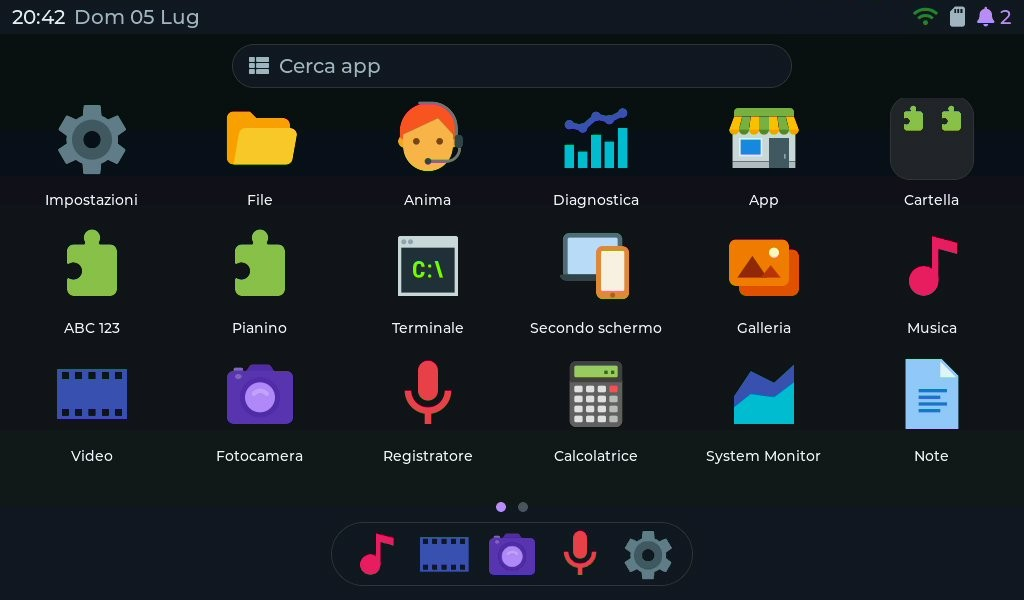
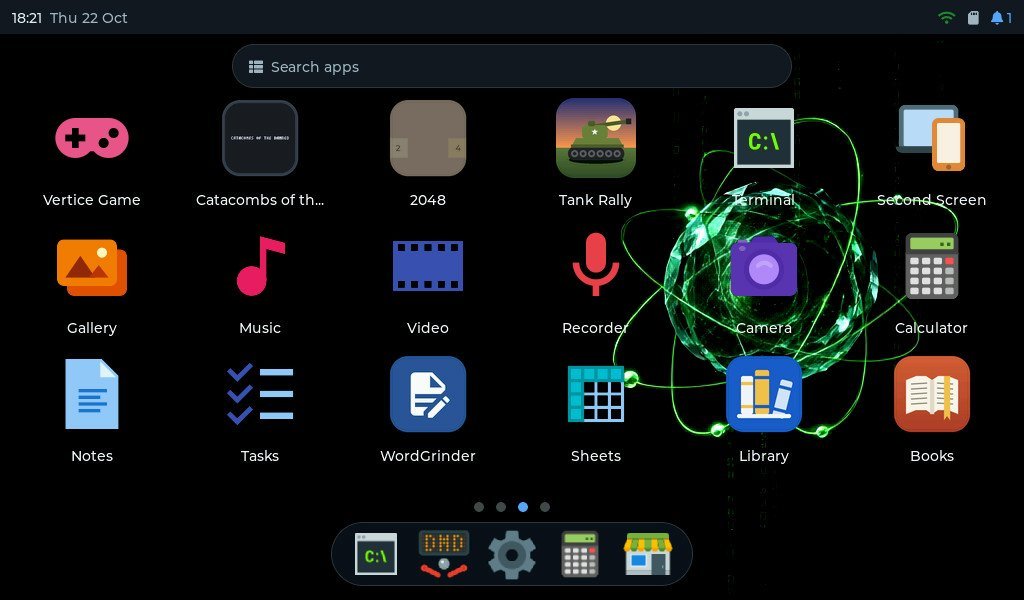
docs: a new README for today's NucleoOS, with English screenshots
The README now covers what the system has become: the classic desktop,
the store by platform (WASM-4, Arduboy, Game Boy, Doom, ScummVM, CHIP-8,
interactive fiction, LOVE, terminal tools), the Books reader and its
catalog, Library, Sheets and WordGrinder, the Vertice 3D engine, ANIMA
(offline first, its four modes, tools, keys sealed to the chip), Second
Screen, Home with Home Assistant, DMD Pinball, the web desktop and ABI 19.
New live captures from the board, all with the UI in English; the Wi-Fi
name and the home address are covered.

Launcher tiles now take an app's name in the UI language from its
manifest "names" (the Store did already); five store apps that only had
an Italian name get theirs.

diff --git a/components/nv_wasm/nv_wasm.cpp b/components/nv_wasm/nv_wasm.cpp
@@ -2716,6 +2716,13 @@ bool read_manifest(const char *dir, const char *id, nv_wasm_app_t *out) {
 
     memset(out, 0, sizeof(*out));
     const cJSON *jn = cJSON_GetObjectItem(root, "name");
+    {   // "names": {"en": ..., "it": ...}: the UI language's name on the tile, else "name"
+        static const char *const kCode[NV_LANG_COUNT] = {"en", "it", "es", "fr", "de"};
+        const int l = (int)nv_i18n_get_lang();
+        const cJSON *jns = cJSON_GetObjectItem(root, "names");
+        const cJSON *jl = cJSON_IsObject(jns) && l >= 0 && l < (int)NV_LANG_COUNT ? cJSON_GetObjectItem(jns, kCode[l]) : nullptr;
+        if (cJSON_IsString(jl) && jl->valuestring && jl->valuestring[0]) jn = jl;
+    }
     const cJSON *jv = cJSON_GetObjectItem(root, "version");
     const cJSON *je = cJSON_GetObjectItem(root, "entry");
     snprintf(out->id, sizeof out->id, "%s", id);

diff --git a/README.md b/README.md
@@ -1,16 +1,16 @@
-# NucleoOS P4 · custom firmware / OS for the Guition JC1060P470C (ESP32-P4 7" display)
+# NucleoOS P4 · an operating system for the Guition ESP32-P4 7" touchscreen
 
-**Turn the Guition ESP32-P4 7" touchscreen (JC1060P470C_I_W) into a real little computer:**
-a touch launcher, 15 built-in apps, an app store (its own apps plus 150 WASM-4 community games), a
-WebAssembly runtime, a desktop in your browser, and signed updates over Wi-Fi. Flash it from Chrome
-in a few minutes, no toolchain needed.
-
-What is verified on the board and what is still experimental is listed feature by feature in
-[`docs/STATUS.md`](docs/STATUS.md).
+**NucleoOS turns the Guition JC1060P470C (ESP32-P4, 7", 1024×600) into a small computer you can
+actually use:** a touch launcher and a classic desktop, an app store with over 400 apps and games,
+an ebook reader with a catalog of free books, a spreadsheet and a word processor, game engines and
+emulators, an assistant that works offline, a second-screen mode for your PC, a Home Assistant
+dashboard, a virtual-pinball DMD, and signed updates over Wi-Fi. Flash it from Chrome in a few
+minutes; no toolchain needed.
 
 [![Install from the browser](https://img.shields.io/badge/⚡_Install-from_your_browser-1f5eff?style=for-the-badge)](https://indecenti.github.io/nucleoos-p4-store/flash/)
 [![Latest release](https://img.shields.io/github/v/release/indecenti/NucleoOS-P4?style=for-the-badge&label=firmware)](https://github.com/indecenti/NucleoOS-P4/releases/latest)
-[![App store](https://img.shields.io/badge/App_store-apps_%2B_150_WASM--4_games-8a4dff?style=for-the-badge)](https://indecenti.github.io/nucleoos-p4-store/)
+[![App store](https://img.shields.io/badge/App_store-400%2B_apps_and_games-8a4dff?style=for-the-badge)](https://indecenti.github.io/nucleoos-p4-store/)
+[![User guide](https://img.shields.io/badge/📖_User_guide-read_it-2ea44f?style=for-the-badge)](docs/USER_GUIDE.md)
 
 ![Platform: ESP32-P4](https://img.shields.io/badge/platform-ESP32--P4-informational)
 ![Board: Guition JC1060P470C](https://img.shields.io/badge/board-Guition_JC1060P470C-informational)
@@ -20,104 +20,233 @@ What is verified on the board and what is still experimental is listed feature b
 ![License: PolyForm Noncommercial 1.0.0](https://img.shields.io/badge/license-PolyForm%20Noncommercial%201.0.0-blue)
 
 <p align="center">
-  <img src="docs/screenshots/demo.gif" alt="NucleoOS P4 running on the Guition JC1060P470C ESP32-P4 7 inch display: launcher, App Store, System Monitor, Music, Video" width="720">
+  <img src="docs/screenshots/home.jpg" alt="NucleoOS P4 launcher on the Guition JC1060P470C ESP32-P4 7 inch display" width="720">
 </p>
 
-| Launcher | App Store: 150 WASM-4 games | A WASM-4 game, touch gamepad |
+| Tablet launcher | Classic desktop | App Store |
 |---|---|---|
-| ![Launcher](docs/screenshots/home.jpg) | ![App Store](docs/screenshots/store-wasm4.jpg) | ![WASM-4 game](docs/screenshots/wasm4-game.jpg) |
-| **Weather** (store app) | **Pomodoro Desk Hub** (store app) | **System Monitor** |
-| ![Weather](docs/screenshots/meteo.jpg) | ![Desk Hub](docs/screenshots/deskhub.jpg) | ![System Monitor](docs/screenshots/sysmon.jpg) |
+| ![Launcher](docs/screenshots/home.jpg) | ![Classic desktop with the Start menu](docs/screenshots/classic-start.jpg) | ![App Store](docs/screenshots/store.jpg) |
+| **Books**: catalog and reader, upright | **Sheets**: xlsx spreadsheets | **ANIMA**: the assistant |
+| ![Books catalog and a page](docs/screenshots/books.jpg) | ![Sheets](docs/screenshots/sheets.jpg) | ![ANIMA](docs/screenshots/anima.jpg) |
+| **Doom engine** (Freedoom) | **Vertice GP**, a 3D game on our engine | **Game Boy** emulator |
+| ![Doom](docs/screenshots/doom.jpg) | ![Vertice GP](docs/screenshots/vertice-gp.jpg) | ![Game Boy](docs/screenshots/gameboy.jpg) |
+| **Terminal**: shell, Python, Lua | **Second Screen** for your PC | **System Monitor** |
+| ![Terminal](docs/screenshots/terminal.jpg) | ![Second Screen](docs/screenshots/second-screen.jpg) | ![System Monitor](docs/screenshots/sysmon.jpg) |
 
-*Live captures from the device, 1024×600.*
+*Live captures from the device, 1024×600. What is verified on the board and what is still
+experimental is listed feature by feature in [`docs/STATUS.md`](docs/STATUS.md).*
 
 ## Install in 3 steps
 
 1. **Open the [web flasher](https://indecenti.github.io/nucleoos-p4-store/flash/)** in Chrome or
    Edge, plug the board in with a USB-C data cable, press *Connect & install*.
-2. **Insert a FAT32 microSD** (apps, media, offline content and OTA updates live there).
-3. **Follow the setup wizard**: language, Wi-Fi, then one tap downloads the offline content the board
-   needs (ANIMA's offline data, dictionaries, the web companion, ~140 MB) in the background. Skipped it?
-   Settings > System content. From then on the board updates itself and installs apps from the Store.
+2. **Insert a FAT32 microSD.** Apps, books, media, offline content and updates live there.
+3. **Follow the setup wizard**: language, Wi-Fi, then one tap downloads the offline content
+   (ANIMA's data, dictionaries, the web companion, about 140 MB) in the background. Skipped it? Find
+   it later in **Settings > System content**. From then on the board updates itself and installs
+   apps from the Store.
 
 Prefer the command line? Each [release](https://github.com/indecenti/NucleoOS-P4/releases/latest)
 has a single factory image:
 `esptool.py --chip esp32p4 write_flash 0x0 nucleoos-p4-<version>-jc1060p470c-factory.bin`
 
 > Needs an ESP32-P4 chip revision v0.x/v1.x, which covers every board sold so far. On a v3 chip
-> the bootloader just won't start, and the stock firmware can be flashed back.
+> the bootloader won't start, and the stock firmware can be flashed back.
+
+**New here? Read the [user guide](docs/USER_GUIDE.md)**: every feature, step by step.
 
 ## What you get
 
-### App store, installed over Wi-Fi
-- **150 WASM-4 fantasy-console games** by the WASM-4 community (2048, Break-It, Cosmic Inv4ders,
-  Glitch Dungeon, …), each under its author's license, full-screen with an on-screen gamepad or a
-  USB keyboard
-- **Terminal programs**: Lua 5.4, JavaScript (QuickJS-ng, ES2024), SQLite shell, BASIC, JSON,
-  Markdown and Zip tools, running as WASI console apps on the SD card
-- **Apps**: Weather (Open-Meteo, no API key), Pomodoro Desk Hub, Timer, kids' apps (ABC 123 with
-  voice, Pianino), and more
-- Every package is signed; the device refuses unsigned or altered ones and asks before an app
-  gets network access. Categories, search, 5 languages. The catalog is static on GitHub Pages:
-  [browse it](https://indecenti.github.io/nucleoos-p4-store/)
+### Two desktops: tablet and classic
+- **Tablet launcher**: adaptive grid with pages, folders, a dock, search and wallpapers;
+  landscape and portrait; multitouch (5 points); system gestures only on the screen edges.
+- **Classic desktop**: desktop icons, a taskbar, a Start menu with search, pinned apps and games,
+  a system tray, windows with title bars, and right-click menus. Turn it on in **Settings >
+  Display**, or let it switch on by itself when a mouse and a keyboard are plugged in. It changes
+  only the shell; the apps look the same.
+- **Keyboard and mouse everywhere**: USB or Bluetooth (BLE). Focus moves with Tab, Esc goes back,
+  F1 shows the shortcuts, Alt+Tab and Alt+F4 work. There's a desktop-style selection
+  (Ctrl/Shift/rubber band), **Open with** and default apps, a system clipboard for text, images and
+  files, and a screen-region capture.
 
-### Built-in apps
-Settings · Files · Camera (photo + MJPEG video) · Gallery (hardware JPEG) · Music
-(MP3/WAV, background playback) · Video (MJPEG .avi and MPEG-1 .mpg, tear-free) · Voice
-Recorder (experimental) · Notes · Calculator · Terminal ([shell reference](docs/SHELL.md)) · Tasks · System Monitor · Diagnostics · Second Screen ·
-**Anima**, the assistant (offline commands and memory, optional cloud LLM with your own key)
+### App Store: over 400 apps and games, installed over Wi-Fi
+| Platform | What's in it |
+|---|---|
+| WASM-4 | 149 fantasy-console games by the WASM-4 community |
+| Arduboy | 83 games |
+| Game Boy | a Peanut-GB emulator and 39 free homebrew ROMs |
+| Doom engine | Chocolate Doom with OPL music; 32 packages, including Freedoom 1 and 2 |
+| ScummVM | ScummVM 2.9.1 with 8 freeware adventures (Beneath a Steel Sky, Flight of the Amazon Queen…) |
+| CHIP-8 | one app with 83 CHIP-8 / SUPER-CHIP / XO-CHIP games |
+| Interactive fiction | 33 titles on Frotz and Glulxe, Zork included |
+| Lua and LÖVE | 16 LÖVE games and more on the Lua App engine |
+| Terminal | Lua 5.4, JavaScript (QuickJS-ng), MicroPython, BASIC, Berry, Wren, Tcl, Scheme, pForth, SQLite, jq, bc, GNU units, Eigenmath, pdfio, zstd, FIGlet… |
+| Apps | Weather, Air quality, Home, Devices, Synth, Pianino, Timer, Pomodoro Desk Hub, Puzzles (40 games by Simon Tatham), Chess, Library, WordGrinder… |
+
+Every package is **signed**: the device refuses unsigned or altered ones, and shows an app's
+permissions (network, LAN, files) before you install it. The Store has categories, platforms,
+search, featured lists and 5 languages; its catalog is static on GitHub Pages:
+[browse it](https://indecenti.github.io/nucleoos-p4-store/). System tools (Lua, JavaScript,
+Python, SQLite, the office programs) are installed and kept up to date automatically.
+
+### Reading: Books and Library
+- **Books** is a full ebook reader: EPUB 2/3 (fixed layout too), FB2, CBZ comics, TXT, HTML,
+  Markdown. Justified pages with hyphenation in 11 languages, widows and orphans kept away, real
+  chapters and a table of contents, bookmarks, notes, full-text search, one or two pages, and a
+  picture viewer with zoom.
+- **Six themes**: white, sepia, dark, black, an **e-ink simulation** with its refresh flash, and
+  **1-bit** monochrome with dithered pictures.
+- **Upright reading**: hold the board in portrait and the reader turns with it.
+- **A catalog of free books inside the app**: thousands of rights-checked public-domain and
+  freely licensed books (Project Gutenberg, Standard Ebooks, Wikisource, Wikibooks) in English,
+  Italian, German, Spanish, French and more, with covers. Pick a language, search, download in one
+  tap (checked with SHA-256), read.
+- **Library** reads offline Wikipedia and any Kiwix ZIM file, pictures and formulas included, and
+  downloads ZIM files from the Kiwix catalog.
+
+### Office: Sheets and WordGrinder
+- **Sheets** is a native spreadsheet. It opens and saves **xlsx**, opens xls, ods, csv and tsv,
+  has function names in your language, templates (monthly budget, shopping list, timesheet) and a
+  recovery copy. ANIMA can propose edits that you apply with one tap.
+- **WordGrinder** is a word processor for the terminal: odt, Markdown and HTML.
+- With the classic desktop and a keyboard, the board works as a small writing and accounting
+  machine.
+
+### Games, engines and emulators
+- **Vertice**, a 3D engine in the firmware: it renders on both cores in tiles, with lights, fog,
+  particles, models, a Mode-7 floor, 360° panoramas and picking. Games on it: Vertice GP (karts),
+  Vertice Bass (fishing), Tank Rally.
+- **Doom engine** (doomgeneric / Chocolate Doom) with OPL music, keyboard, mouse and gamepads.
+- **ScummVM**, **Game Boy**, **Arduboy**, **CHIP-8**, **WASM-4** with its upstream rasterizer
+  and sound, **interactive fiction**, and **LÖVE** games on Lua.
+- An on-screen gamepad for touch, plus USB and Bluetooth gamepads (experimental).
+
+### ANIMA, the assistant that works offline first
+ANIMA answers on the device whenever it can and says "I don't know" instead of guessing:
+- **On the device, with no network**: arithmetic, time and date, unit conversions, timers and
+  alarms, opening apps, volume and brightness, system status, and knowledge cards from offline
+  Wikipedia and Wikidata packs in five languages.
+- **Four modes**: *offline*; *local*, with a model on your LAN (Ollama, LM Studio, llama.cpp),
+  so nothing leaves your home; *hybrid*, the default, which adds the web; and *agent*, where a
+  model leads the turn but everything the device can do exactly stays on the device.
+- **Agent tools**: the shell, files, apps, timers, memory (up to 48 facts it learns about you),
+  image input, skills, a permissions file that says what it may do, and periodic checks.
+- **Bring your own model**: Groq/OpenAI-style APIs, Anthropic, Gemini, or a server on your
+  network found automatically. **API keys never leave the device**: they are sealed to the chip.
+- **Also from your phone and PC**: a Telegram bot, an MCP server for desktop AI clients, and the
+  web chat. Optional offline **wake word** (ESP-SR WakeNet, off by default in the build).
+
+### Second Screen: the board as a display for your computer
+Pick your computer and the board guides you step by step:
+- **Windows** over USB (an indirect-display driver);
+- **Mac** with Screen Sharing (VNC, with Apple Remote Desktop authentication);
+- **Linux**, **Android** (droidVNC-NG) or **any device with a browser** (NucleoCast).
+
+Full details in [`docs/SECOND_SCREEN.md`](docs/SECOND_SCREEN.md). USB mode is experimental.
+
+### Smart home: Home and Home Assistant
+- **Home** (store app) is a touch dashboard for **Home Assistant**: tiles by room for lights with
+  brightness, thermostats, covers, sensors, energy, locks and scenes. Set it up in **Settings >
+  Home** with your Home Assistant URL and a long-lived access token, or paste them from a PC.
+- The board announces its own sensors and controls to Home Assistant over **MQTT discovery**.
+- Related store apps: Devices, Zigbee, openHASP, MQTT Explorer. Guide:
+  [`docs/HOME_ASSISTANT.md`](docs/HOME_ASSISTANT.md).
+
+### DMD Pinball: the display of a virtual pinball cabinet
+The board becomes the cabinet's dot-matrix display for dmdext: over Wi-Fi (`networkstream`) or
+USB, where it emulates a ZeDMD 128×32. Both links can be live at once. It offers nine layouts
+(backglass + DMD among them), a clock when the PC is silent, dot colour, shape and glow, a test
+screen, and a PinUP Popper touch menu to pick tables through a small PC bridge. Verified on a real
+cabinet. Guide: [`docs/DMD.md`](docs/DMD.md).
+
+<p align="center">
+  <img src="docs/screenshots/dmd_fullscreen.jpg" alt="NucleoOS DMD Pinball: a 128x32 DMD on the 7 inch display" width="480">
+</p>
+
+### Media
+- **Camera** (OV02C10 module): auto exposure and white balance, photos, MJPEG video.
+- **Music**: MP3, WAV, AAC, FLAC, M4A, with background playback and USB-audio output.
+- **Video**: MJPEG `.avi` and MPEG-1 `.mpg`, tear-free. **Gallery** has hardware-JPEG thumbnails.
+  **Recorder** records WAV (experimental).
 
 ### A desktop in your browser
-Open the board's IP in any browser and you get a windowed web OS with ~35 apps (files,
-spreadsheet, media, terminal, system monitor…) talking to the device over a REST API.
+Open the board's address in any browser, pair it with the 6-digit code shown on the screen, and
+you get a windowed web OS with 40 apps: files, spreadsheet, SSH, mail, a DJ mixer, a media player,
+a terminal, AI chat and agents, a system monitor and more. Everything runs against the device's
+REST API.
 
 <p align="center">
   <img src="docs/screenshots/webos.gif" alt="NucleoOS P4 web companion: a desktop OS in the browser served by the ESP32-P4" width="640">
 </p>
 
 ### The system underneath
-- **LVGL 9 launcher**: adaptive grid, pages, folders, smart dock, wallpapers, search, rotation, multitouch (5 points)
-- **Wi-Fi 6 via the ESP32-C6**, automatic **signed OTA updates** from GitHub, A/B partitions with rollback
-- **5 languages** (IT/EN/ES/FR/DE), **offline text-to-speech** in Italian and English
-- **USB host**: keyboard, mouse, USB audio output; gamepads and USB drives are experimental
-- **Hardware acceleration**: JPEG codec, PPA scaling/rotation, double-buffered display with vsync swap
-- RAM discipline: one app resident at a time, a PSRAM broker that reclaims caches before heavy work
+- **Wi-Fi 6 through the ESP32-C6**, Bluetooth LE for keyboards, mice and gamepads; USB host for
+  keyboards, mice, audio, gamepads and drives (drives and pads experimental).
+- **Signed OTA updates** from GitHub with a primary and an offline backup key, a beta channel, a
+  recovery app, a safe mode and a last-known-good copy in flash. Updates are staged on the SD card.
+- **5 languages** (English, Italian, Spanish, French, German) and **offline text-to-speech** in
+  Italian and English.
+- **Hardware acceleration**: the JPEG codec, the PPA for scaling and rotation, and a
+  double-buffered display with vsync. Apps get them too: hardware JPEG decoding and a canvas turned
+  by the PPA (ABI 19).
+- **RAM discipline**: one app runs at a time, and a PSRAM broker reclaims caches before heavy work.
+- **A system downloader** with resume, SHA-256 checks and progress, shared by every app.
 
 ### For developers
-- **Write apps in C → WebAssembly** with the SDK in [`sdk/`](sdk/): graphics surface, touch
-  (multi-point), audio, voice, networking (UDP), files (WASI), file associations
-- **AOT compilation** (WAMR `wamrc`) for native speed on the P4's RISC-V cores, with interpreter fallback
-- **Hot-reload over Wi-Fi**: push a `.wasm` from the PC and it restarts on the device
-- Remote UI automation and screenshots over HTTP (`/api/ui/*`, `/api/screen`); the API is paired:
-  a 6-digit code on the device screen, then a session token (`python tools/pair.py` for PC tools)
-- **Start here:** [`docs/APP_SDK.md`](docs/APP_SDK.md) — choose a runtime (native C++, WASM, Lua, web), native app guide, keyboard conventions
-- Architecture: [`ARCHITECTURE.md`](ARCHITECTURE.md) · app guide: [`docs/WASM_APPS.md`](docs/WASM_APPS.md) · game guide: [`docs/GAME_DEV.md`](docs/GAME_DEV.md) · feature status: [`docs/STATUS.md`](docs/STATUS.md)
+- **Write apps in C, compiled to WebAssembly**, with the SDK in [`sdk/`](sdk/): graphics with
+  dirty rectangles, sprites and panels, multitouch, keyboard and mouse, gamepads, audio and a mixer,
+  voice, UDP, async HTTP, WebSocket, MQTT, mDNS, files (WASI), file associations, full-screen
+  terminal programs, the downloader, canvas rotation and hardware JPEG. Host ABI **19**: see the
+  table in [`docs/WASM_APPS.md`](docs/WASM_APPS.md).
+- Or write **Lua apps** with `gfx`/`ui`/`nv` modules and a LÖVE layer
+  ([`docs/LUA_APPS.md`](docs/LUA_APPS.md)), or **native C++** apps.
+- **AOT compilation** (WAMR `wamrc`) for native speed on the P4's RISC-V cores, with an
+  interpreter fallback.
+- **Hot reload over Wi-Fi**, remote UI automation and screenshots over HTTP (`/api/ui/*`,
+  `/api/screen`), and a remote shell. The API is paired: a 6-digit code on the device, then a
+  session token (`python tools/pair.py`).
+- **Start here:** [`docs/APP_SDK.md`](docs/APP_SDK.md) helps you choose a runtime (native C++,
+  WASM, Lua, web). Then: architecture [`ARCHITECTURE.md`](ARCHITECTURE.md) · app guide
+  [`docs/WASM_APPS.md`](docs/WASM_APPS.md) · game guide [`docs/GAME_DEV.md`](docs/GAME_DEV.md) ·
+  3D engine [`docs/VERTICE.md`](docs/VERTICE.md) · shell [`docs/SHELL.md`](docs/SHELL.md).
+
+## Documentation
+| For | Read |
+|---|---|
+| Using the board | [User guide](docs/USER_GUIDE.md) · [Shell reference](docs/SHELL.md) · [Books](apps/libri/GUIDE.en.md) |
+| ANIMA | [Modes](docs/ANIMA_MODES.md) · [Knowledge packs](docs/ANIMA_KB.md) · [Workspace, tools and Telegram](docs/ANIMA_WORKSPACE.md) · [Hands-free](docs/HANDSFREE.md) |
+| Connections | [Second Screen](docs/SECOND_SCREEN.md) · [Home Assistant](docs/HOME_ASSISTANT.md) · [DMD Pinball](docs/DMD.md) · [Open with](docs/FILE_ASSOCIATIONS.md) |
+| Updates and safety | [OTA](docs/OTA.md) · [Security](SECURITY.md) · [Feature status](docs/STATUS.md) |
+| Building apps | [App SDK](docs/APP_SDK.md) · [WASM apps](docs/WASM_APPS.md) · [Lua apps](docs/LUA_APPS.md) · [Games](docs/GAME_DEV.md) · [Vertice 3D](docs/VERTICE.md) |
+| Working on the OS | [Architecture](ARCHITECTURE.md) · [Engineering rules](docs/ENGINEERING_RULES.md) · [Contributing](CONTRIBUTING.md) |
 
 ## Engineering and testing
-- **CI on every commit** ([`ci.yml`](.github/workflows/ci.yml)): clean ESP-IDF build from pinned
-  dependencies, a check that the lock file did not drift, and **memory budgets** (internal static
-  RAM and IRAM) that fail the build when exceeded.
-- **Host tests and fuzzers** ([`tests/host`](tests/host)): every parser that reads untrusted input
-  (AVI, MP4, MPEG-1, web paths and queries, OTA manifests, store packages, pairing, app network
-  policy, Home Assistant replies) has unit tests and a libFuzzer target, run under AddressSanitizer
-  and UBSan as 64-bit and 32-bit builds, since the P4 is 32-bit. A weekly job fuzzes longer. The
-  fuzzers already found path-guard bypasses in the web API and hangs and out-of-bounds reads in
-  the MPEG-1 decoder; all fixed, each with a regression test.
-- **Hardware in the loop** ([`tools/hil/smoke.py`](tools/hil/smoke.py)): opens and closes every app on
-  the board, watching for reboots, freezes and memory leaks, plus a Wi-Fi soak test.
-- **Crash forensics**: coredumps and an interrupt-storm watchdog are kept across reboots and served at
-  `/api/crash`.
+- **CI on every commit** ([`ci.yml`](.github/workflows/ci.yml)): a clean ESP-IDF build from pinned
+  dependencies, a check that the lock file did not drift, **memory budgets** (internal static RAM
+  and IRAM) that fail the build when exceeded, manifest checks, and a privacy check that keeps
+  personal data and secrets out of the public repo.
+- **Host tests and fuzzers** ([`tests/host`](tests/host)): 35 unit-test files and 16 libFuzzer
+  targets for every parser that reads untrusted input (AVI, MP4, MPEG-1, JPEG headers, web paths and
+  queries, OTA manifests, store packages, pairing, app network policy, Home Assistant replies…),
+  under AddressSanitizer and UBSan, as 64-bit and 32-bit builds since the P4 is 32-bit. A weekly job
+  fuzzes longer. The fuzzers have found real bugs (path-guard bypasses, decoder hangs and
+  out-of-bounds reads), each fixed with a regression test.
+- **Hardware in the loop** ([`tools/hil`](tools/hil)): opens and closes every app watching for
+  reboots, freezes and leaks; checks the OTA safety net, downloads with resume, canvas rotation and
+  hardware JPEG on the real board.
+- **Crash forensics**: coredumps and an interrupt-storm watchdog are kept across reboots and served
+  at `/api/crash`.
 - **Engineering rules** ([`docs/ENGINEERING_RULES.md`](docs/ENGINEERING_RULES.md)): each rule comes
   from a real crash or freeze on this board, with the reason.
-- **Security** ([`SECURITY.md`](SECURITY.md)): signed firmware and apps, paired web API, settings
-  encryption; what is protected and what is not.
-- Measured numbers (fps, decode times, RAM) are in [`docs/STATUS.md`](docs/STATUS.md#measured-numbers).
+- **Security** ([`SECURITY.md`](SECURITY.md)): signed firmware and apps, a paired web API with
+  Host/Origin checks, a lock-screen PIN, a security event log; what is protected and what is not.
 
 ## Known limitations
 - **H.264 / MP4 video is not supported.** Use MJPEG `.avi` or MPEG-1 `.mpg`.
 - **No Classic Bluetooth**: the ESP32-C6 co-processor runs BLE only.
 - **One app runs at a time**, by design: the RAM goes to the app in front.
-- **No Secure Boot or flash encryption** by default. Settings encryption is tested and being rolled out.
+- **No Secure Boot or flash encryption** by default; settings encryption is implemented but off in
+  shared builds.
 - The **web companion is plain HTTP** on your LAN, protected by pairing.
 - The CPU runs at 360 MHz: this board does not boot reliably at 400 MHz.
 - Experimental features are marked in [`docs/STATUS.md`](docs/STATUS.md).
@@ -130,7 +259,7 @@ spreadsheet, media, terminal, system monitor…) talking to the device over a RE
 | Guition JC8012P4A1 (10.1" ESP32-P4) | ❌ not supported yet |
 
 Also sold as "Guition ESP32-P4 7 inch display", "JC1060P470C", "JC1060P470C-I-W" (AliExpress /
-Guition store), same board with the JC-ESP32P4-M3 module.
+Guition store): the same board with the JC-ESP32P4-M3 module.
 
 - SoC: **ESP32-P4** (+ ESP32-C6 co-processor for Wi-Fi 6 / BLE via `esp_hosted`), 32 MB PSRAM, 16 MB flash
 - Display: JD9165 7" **1024×600** MIPI-DSI, GT911 capacitive touch
@@ -157,19 +286,22 @@ dependencies are pinned by `dependencies.lock`.
 | Path | What |
 |------|------|
 | `main/` | boot entry (`app_main.cpp`) |
-| `components/nv_*` | OS subsystems: hal, ui, kernel, apps, wasm, media, tts, anima, web, … |
-| `apps/` | WASM app sources (compiled to `app.wasm`) |
+| `components/nv_*` | OS subsystems: hal, ui, kernel, apps, wasm, media, tts, anima, web, dmd, … |
+| `components/vertice` | the Vertice 3D engine |
+| `apps/` | app packages: sources, manifests, store screenshots |
+| `ports/` | third-party ports (Doom, ScummVM, Lua, the Books reader, the ZIM reader, CLI tools…) |
 | `sdk/` | WASM app C SDK (`nucleo_sdk.h`) |
 | `sd/web` | web OS companion (PWA served over Wi-Fi) |
-| `system/icons` | UI icon sources (build consumes the generated `components/nv_ui/generated/nv_icons.c`) |
-| `tools/` | asset/voice/icon generators, OTA + sync scripts |
+| `server/appstore` | the store's catalog sources |
+| `tools/` | builds, store and OTA publishing, HIL tests, asset generators |
+| `tests/host` | host unit tests and fuzzers |
 
 > `system/icons/mdi` and `system/icons/flat-color` are third-party icon repos (own git history),
 > not tracked here; re-clone them only if you need to regenerate `nv_icons.c`.
 
 ## Contributing
-PRs welcome, see [`CONTRIBUTING.md`](CONTRIBUTING.md) (includes a short contributor agreement so
-the project can stay dual-licensed). Third-party components and their licenses are listed in
+PRs welcome, see [`CONTRIBUTING.md`](CONTRIBUTING.md) (it includes a short contributor agreement
+so the project can stay dual-licensed). Third-party components and their licenses are listed in
 [`THIRD_PARTY.md`](THIRD_PARTY.md).
 
 ## License
